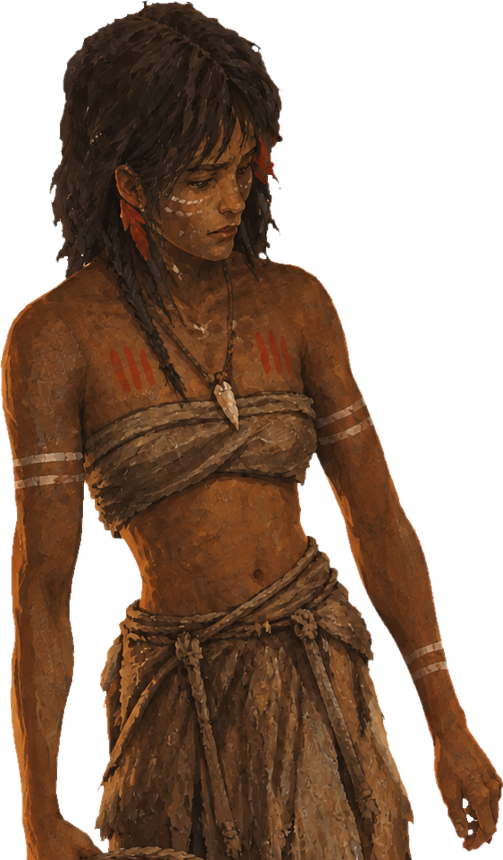
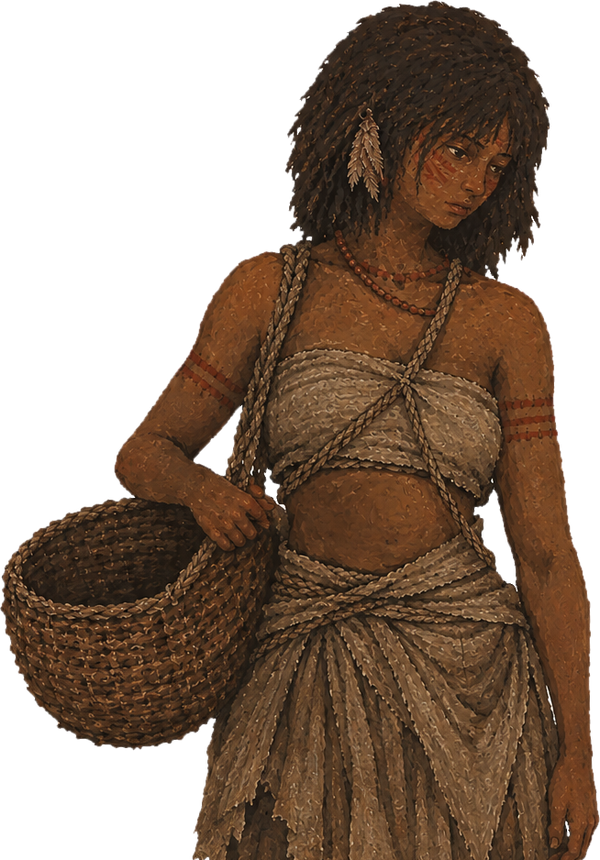
Potira: arte nova em pé (padronizada) e sentada na Noite 4
As duas artes novas da Potira vieram com o fundo xadrez desenhado na
própria imagem; o conversor agora tira esse fundo (e os fios claros que
sobram na borda). Em pé, ela segue o corte padrão (do topo da cabeça ao
meio da coxa). Sentada, ela fica sobre a cama da oca Wanadi, ao lado do
pajé na fogueira da Noite 4 e na esteira do tapiri.

diff --git a/Jogo/ferramentas/converter_arte.py b/Jogo/ferramentas/converter_arte.py
@@ -57,6 +57,11 @@ DISTANCIA_BRANCO_PRESO = 24
 # mancha branca for grande. Mancha pequena (dente, brilho do olho) fica.
 LIMIAR_BRANCO_CERCADO = 240
 AREA_MINIMA_BRANCO_CERCADO = 1500   # pixels da arte original
+# Arte com o fundo xadrez desenhado na imagem (cinza e branco, sem transparência de verdade):
+# o xadrez preso entre o braço e o corpo forma manchas pequenas, que também saem.
+ARTE_XADREZ = ["personagens_png/Potira_png.png", "Personagens_sentados_png/Potira_sentada_png.png"]
+AREA_MINIMA_BRANCO_CERCADO_XADREZ = 30
+LIMIAR_BRANCO_CERCADO_XADREZ = 232   # o cinza do xadrez (238) também conta
 
 # Arte que já vem transparente: o fundo é conhecido, então a limpeza perto da borda pode ser
 # mais firme. A ferramenta que tira o fundo costuma deixar fios meio transparentes porém
@@ -86,7 +91,9 @@ PNG = "personagens_png/"
 PERSONAGENS = [
     (PNG + "Yara.png", "personagens/yara.png", 90, 1675, True),
     (PNG + "Mbaé.png", "personagens/mbae.png", 90, 1920),
-    (PNG + "Potira.png", "personagens/potira.png", 90, 1040),
+    # Potira veio de novo (Potira_png.png): já de pé, com o fundo xadrez desenhado na própria
+    # imagem (cinza e branco, sem transparência de verdade), que sai como fundo branco.
+    (PNG + "Potira_png.png", "personagens/potira.png", 0, 950),
     (PNG + "Tama.png", "personagens/tamandare.png", 90, 1950),
     (PNG + "Iandé.png", "personagens/iande.png", 90, 1785),
     (PNG + "Krenan.png", "personagens/krenan.png", 90, 1590),
@@ -229,6 +236,10 @@ def converter_personagem(origem, destino, giro, meio_da_coxa, descascar=False):
         imagem.putalpha(ImageChops.subtract(alfa, fio_branco))
         if descascar:
             imagem = descascar_borda(imagem)
+    elif origem in ARTE_XADREZ:
+        imagem = tirar_fundo_branco(imagem, limiar_cercado=LIMIAR_BRANCO_CERCADO_XADREZ,
+                                    area_cercado=AREA_MINIMA_BRANCO_CERCADO_XADREZ)
+        imagem = descascar_borda(imagem)   # os fios claros do xadrez que sobram na borda
     else:
         imagem = tirar_fundo_branco(imagem)
     # Corte padrão: do topo da cabeça até o meio da coxa. Se a arte acabar antes,
@@ -262,6 +273,8 @@ SENTADOS = [
     # e a moça abraçando os joelhos (Iandé) no arquivo "Araci_sentada".
     (SENTADOS_PNG + "Iandé_sentada.png", "personagens/sentados/araci.png"),
     (SENTADOS_PNG + "Araci_sentada.png", "personagens/sentados/iande.png"),
+    # Potira veio fora da pasta dos sentados, com o fundo xadrez desenhado na imagem.
+    ("Personagens_sentados_png/Potira_sentada_png.png", "personagens/sentados/potira.png"),
 ]
 
 
@@ -273,6 +286,13 @@ def converter_sentado(origem, destino):
         return
     os.makedirs(os.path.dirname(caminho_destino), exist_ok=True)
     imagem = Image.open(caminho_origem).convert("RGBA")
+    if imagem.getchannel("A").getextrema()[0] == 255:
+        # Sem transparência (fundo branco, ou o xadrez claro desenhado na imagem): tira o fundo.
+        area = AREA_MINIMA_BRANCO_CERCADO_XADREZ if origem in ARTE_XADREZ else AREA_MINIMA_BRANCO_CERCADO
+        imagem = tirar_fundo_branco(imagem, limiar_cercado=LIMIAR_BRANCO_CERCADO_XADREZ if origem in ARTE_XADREZ
+                                    else LIMIAR_BRANCO_CERCADO, area_cercado=area)
+        if origem in ARTE_XADREZ:
+            imagem = descascar_borda(imagem)   # os fios claros do xadrez que sobram na borda
     imagem = imagem.crop(imagem.getchannel("A").getbbox())   # só a pessoa, sem a sobra em volta
     escala = ALTURA_SENTADO / imagem.height
     imagem = imagem.resize((round(imagem.width * escala), ALTURA_SENTADO), Image.LANCZOS)

diff --git a/Jogo/dados/aldeia.py b/Jogo/dados/aldeia.py
@@ -86,9 +86,8 @@ ONDE_DORME = {
     # Mbaé senta sobre a cama (o estrado da direita), na mesma pose da fogueira. Ocupa um pouco
     # mais que a metade da altura da parede (a parede vai de y 235 a 570: uns 335; Mbaé, uns 195).
     "Mbaé": {"oca": "oca2", "imagem": "mbae_sentado", "posicao": (1235, 598), "escala": 0.35},
-    # Potira fica na oca Wanadi. Ainda não há arte dela sentada: ela aparece em pé, perto de
-    # quem olha, com a borda de baixo da imagem (o meio das coxas) rente à borda da tela.
-    "Potira": {"oca": "oca3", "imagem": "potira", "posicao": (1180, 900), "escala": 0.6},
+    # Potira senta sobre a cama da oca Wanadi (a cama fica à direita).
+    "Potira": {"oca": "oca3", "imagem": "potira_sentada", "posicao": (1240, 652), "escala": 0.33},
 }
 
 # Onde senta, dentro do tapiri, quem o jogador levou para lá (a esteira fica à direita).
@@ -96,7 +95,7 @@ ONDE_DORME = {
 ONDE_DORME_TAPIRI = {
     "Yara": {"imagem": "yara_sentada", "posicao": (1235, 690), "escala": 0.36},
     "Mbaé": {"imagem": "mbae_sentado", "posicao": (1420, 668), "escala": 0.42},
-    "Potira": {"imagem": "potira", "posicao": (1300, 900), "escala": 0.6},
+    "Potira": {"imagem": "potira_sentada", "posicao": (1330, 690), "escala": 0.36},
 }
 
 # Textos de dentro da oca.

diff --git a/Jogo/dados/noites.py b/Jogo/dados/noites.py
@@ -148,9 +148,8 @@ ZONAS_YARA_NOITE_3[1] = {"pergunta": "Olhos",
 
 # --- Noite 4: Potira, a que você conhece ---
 # Potira é sã: o olho está cansado, a boca seca de sede. Nada bate com a tábua.
-# Ainda não há arte dela sentada: na fogueira ela fica em pé, na frente, à direita, com a
-# borda de baixo da imagem rente à borda da tela.
-POSICAO_POTIRA, ESCALA_POTIRA = (1270, 900), 0.45
+# Na fogueira, ela senta no tronco da direita, ao lado do pajé.
+POSICAO_POTIRA, ESCALA_POTIRA = (1190, 560), 0.55
 
 ZONAS_POTIRA = [
     {"pergunta": "Testa",
@@ -439,9 +438,9 @@ NOITES = {
                 ],
             },
 
-            # Potira, se entrou: em pé, na frente, à direita do fogo.
+            # Potira, se entrou: sentada ao lado do pajé.
             "Potira": {
-                "imagem": "potira", "posicao": POSICAO_POTIRA, "escala": ESCALA_POTIRA,
+                "imagem": "potira_sentada", "posicao": POSICAO_POTIRA, "escala": ESCALA_POTIRA,
                 "de_fora": True, "uma_vez": True, "obrigatorio": True,
                 "passos": [
                     {"tipo": "visitante", "visitante": "potira"},

diff --git a/Jogo/dados/arte.py b/Jogo/dados/arte.py
@@ -38,6 +38,7 @@ PERSONAGENS = {
     "krenan_sentado": "personagens/sentados/krenan.png",
     "iande_sentada": "personagens/sentados/iande.png",
     "araci_sentada": "personagens/sentados/araci.png",
+    "potira_sentada": "personagens/sentados/potira.png",
 }
 
 # Detalhes do exame (Arte/Doenças/): o olho de perto, em cores, à direita da tela.
